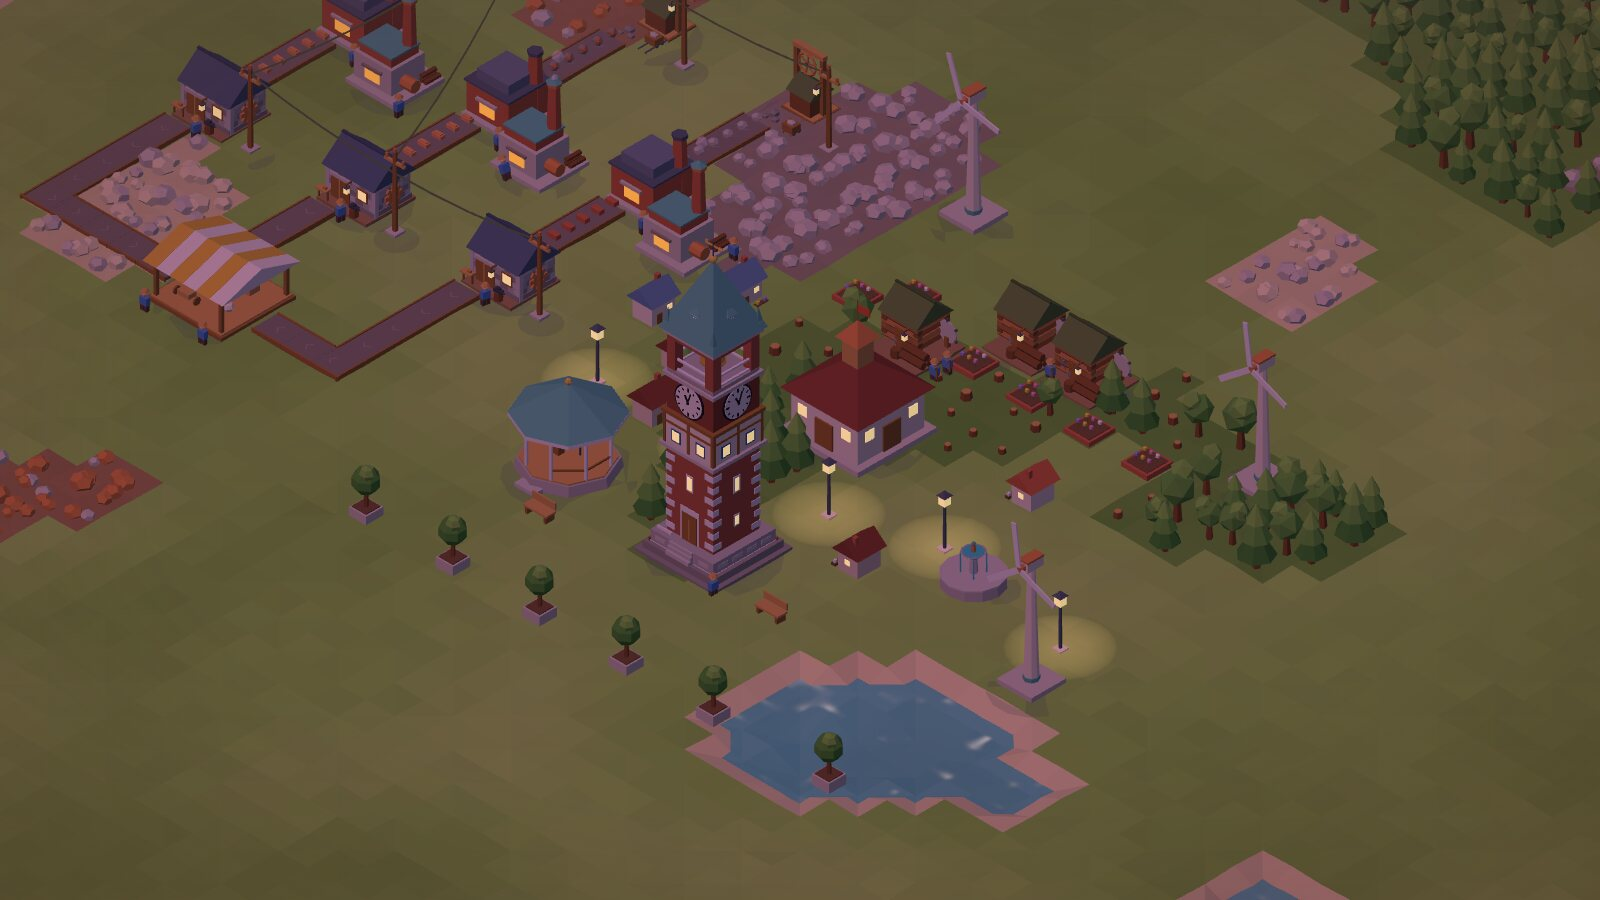
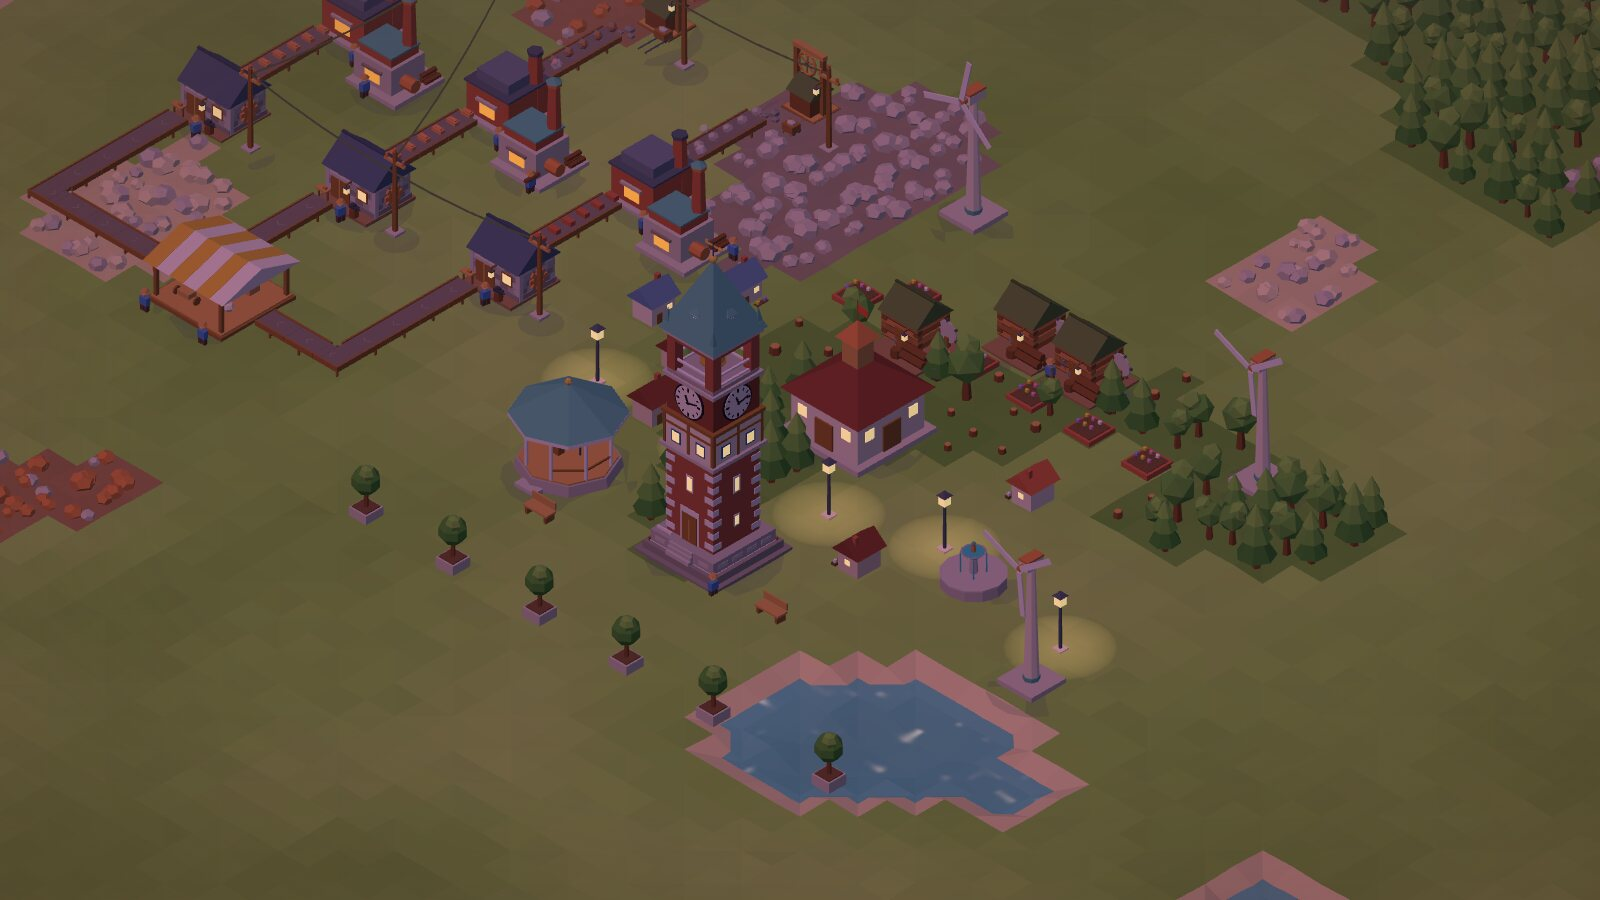
Förderbänder auf Holzböcken und schlanker, Brücke und Tunnel angepasst

diff --git a/src/render/belt-models.ts b/src/render/belt-models.ts
@@ -4,15 +4,22 @@ import { chevron, colored, merge } from './geometry';
 
 /**
  * Bandmodelle für ein Feld. Ursprung = Feldmitte, Ausgang immer nach Norden (−z).
- * Die Lauffläche liegt auf Höhe `BELT_SURFACE`.
+ * Das Band steht auf einem Holzbock etwa einen Meter über dem Boden (Arbeiter sind ~0,46 hoch);
+ * die Lauffläche liegt auf Höhe `BELT_SURFACE`.
  */
-export const BELT_SURFACE = 0.12;
-const W = 0.84; // Breite der Lauffläche
+/** Höhe des Bandkörpers über dem Boden (Unterkante der Lauffläche). */
+export const BELT_LIFT = 0.16;
+export const BELT_SURFACE = BELT_LIFT + 0.12;
+const W = 0.6; // Breite der Lauffläche (schlank, damit Bänder wenig verdecken)
 const H = W / 2;
-/** Holzrahmen: schmale Leisten am Rand (außen bündig mit ±0,47 wie früher, nur halb so breit). */
+/** Holzrahmen: schmale Leisten an beiden Seiten der Lauffläche. */
 const RAIL = 0.05;
 const RAIL_H = 0.15;
-const RAIL_X = 0.47 - RAIL / 2;
+const RAIL_X = H + RAIL / 2;
+const RAIL_Y = BELT_LIFT;
+/** Bock: zwei Beine unter den Leisten und eine Querstrebe. */
+const LEG = 0.05;
+const LEG_X = RAIL_X;
 
 function box(
   w: number,
@@ -33,9 +40,18 @@ const TIER_COLORS: readonly { frame: number; arrow: number }[] = [
   { frame: PALETTE.beltFrameMk3, arrow: PALETTE.beltArrowMk3 },
 ];
 
+/** Holzbock unter der Feldmitte (Beine und Querstrebe in Rahmenfarbe). */
+function trestle(color: number, z = 0): BufferGeometry[] {
+  return [
+    box(LEG, BELT_LIFT + 0.02, LEG, -LEG_X, 0, z, color),
+    box(LEG, BELT_LIFT + 0.02, LEG, LEG_X, 0, z, color),
+    box(2 * LEG_X, 0.035, 0.035, 0, BELT_LIFT * 0.4, z, color),
+  ];
+}
+
 function arrow(z: number, color: number): BufferGeometry {
   // dezenter, flacher Winkel auf der Lauffläche (kaum heller als das Band), zeigt nach −z
-  return chevron(0.26, 0.11, 0.035, 0.004, BELT_SURFACE, color).translate(0, 0, z);
+  return chevron(0.22, 0.1, 0.03, 0.004, BELT_SURFACE, color).translate(0, 0, z);
 }
 
 /**
@@ -44,12 +60,12 @@ function arrow(z: number, color: number): BufferGeometry {
  */
 export function beltDirectionMark(): BufferGeometry {
   return merge([
-    chevron(0.46, 0.2, 0.09, 0.02, BELT_SURFACE + 0.005, PALETTE.beltBuildArrow).translate(
+    chevron(0.4, 0.18, 0.08, 0.02, BELT_SURFACE + 0.005, PALETTE.beltBuildArrow).translate(
       0,
       0,
       0.16,
     ),
-    chevron(0.46, 0.2, 0.09, 0.02, BELT_SURFACE + 0.005, PALETTE.beltBuildArrow).translate(
+    chevron(0.4, 0.18, 0.08, 0.02, BELT_SURFACE + 0.005, PALETTE.beltBuildArrow).translate(
       0,
       0,
       -0.12,
@@ -60,9 +76,10 @@ export function beltDirectionMark(): BufferGeometry {
 export function beltStraight(tier = 1): BufferGeometry {
   const c = TIER_COLORS[tier - 1];
   return merge([
-    box(W, 0.1, 1, 0, 0.02, 0, PALETTE.beltSurface),
-    box(RAIL, RAIL_H, 1, -RAIL_X, 0, 0, c.frame),
-    box(RAIL, RAIL_H, 1, RAIL_X, 0, 0, c.frame),
+    box(W, 0.1, 1, 0, BELT_LIFT + 0.02, 0, PALETTE.beltSurface),
+    box(RAIL, RAIL_H, 1, -RAIL_X, RAIL_Y, 0, c.frame),
+    box(RAIL, RAIL_H, 1, RAIL_X, RAIL_Y, 0, c.frame),
+    ...trestle(c.frame),
     arrow(0, c.arrow),
   ]);
 }
@@ -73,14 +90,33 @@ export function beltCurve(left: boolean, tier = 1): BufferGeometry {
   const s = left ? 1 : -1; // Spiegelung über die Lage der Teile, nicht über die Geometrie
   return merge([
     // Querband vom Eingangsrand bis über die Mitte
-    box(0.5 + H, 0.1, W, s * (-0.5 + (0.5 + H) / 2), 0.02, 0, PALETTE.beltSurface),
+    box(0.5 + H, 0.1, W, s * (-0.5 + (0.5 + H) / 2), BELT_LIFT + 0.02, 0, PALETTE.beltSurface),
     // kurzes Stück zum Nordrand
-    box(W, 0.1, 0.5 - H, 0, 0.02, -0.5 + (0.5 - H) / 2, PALETTE.beltSurface),
-    // Außenränder (Süden und gegenüber dem Eingang)
-    box(1, RAIL_H, RAIL, 0, 0, RAIL_X, c.frame),
-    box(RAIL, RAIL_H, 1, s * RAIL_X, 0, 0, c.frame),
+    box(W, 0.1, 0.5 - H, 0, BELT_LIFT + 0.02, -0.5 + (0.5 - H) / 2, PALETTE.beltSurface),
+    // Außenränder: Süden (vom Eingangsrand bis zur Ecke) und gegenüber dem Eingang (Ecke bis Nordrand)
+    box(
+      0.5 + RAIL_X + RAIL / 2,
+      RAIL_H,
+      RAIL,
+      s * (-0.5 + (0.5 + RAIL_X + RAIL / 2) / 2),
+      RAIL_Y,
+      RAIL_X,
+      c.frame,
+    ),
+    box(
+      RAIL,
+      RAIL_H,
+      0.5 + RAIL_X + RAIL / 2,
+      s * RAIL_X,
+      RAIL_Y,
+      -0.5 + (0.5 + RAIL_X + RAIL / 2) / 2,
+      c.frame,
+    ),
     // Eckpfosten innen
-    box(RAIL, RAIL_H, RAIL, s * -RAIL_X, 0, -RAIL_X, c.frame),
+    box(RAIL, RAIL_H, RAIL, s * -RAIL_X, RAIL_Y, -RAIL_X, c.frame),
+    // Bock unter der Kurvenmitte, quer zur Diagonale
+    box(LEG, BELT_LIFT + 0.02, LEG, s * -LEG_X, 0, -LEG_X, c.frame),
+    box(LEG, BELT_LIFT + 0.02, LEG, s * LEG_X, 0, LEG_X, c.frame),
     arrow(-0.18, c.arrow),
   ]);
 }

diff --git a/src/render/building-models.ts b/src/render/building-models.ts
@@ -11,7 +11,7 @@ import {
   type BufferGeometry,
 } from 'three';
 import { PALETTE } from '../data/palette';
-import { beltStraight } from './belt-models';
+import { BELT_LIFT, beltStraight } from './belt-models';
 import { colored, merge } from './geometry';
 import { bandstand, clockTowerFull, clockTowerSite, fountain } from './landmark-models';
 
@@ -412,12 +412,15 @@ function assembler(): BufferGeometry {
  */
 function tunnel(entrance: boolean): BufferGeometry {
   const dir = entrance ? -1 : 1; // Lage des Portals: Norden (−z) beim Eingang, Süden beim Ausgang
-  const ramp = new BoxGeometry(0.74, 0.08, 0.75).rotateX(dir * 0.22).translate(0, 0.1, -dir * 0.1);
+  // Rampe vom Bandbock (Bandhöhe am offenen Rand) hinab zur Portalöffnung
+  const ramp = new BoxGeometry(0.6, 0.08, 0.8)
+    .rotateX(dir * 0.36)
+    .translate(0, BELT_LIFT - 0.02, -dir * 0.1);
   return merge([
     box(0.96, 0.06, 0.96, 0, 0, 0, PALETTE.rockDark),
     colored(ramp, PALETTE.beltSurface),
-    box(0.1, 0.16, 0.7, -0.42, 0, -dir * 0.12, PALETTE.beltFrame),
-    box(0.1, 0.16, 0.7, 0.42, 0, -dir * 0.12, PALETTE.beltFrame),
+    box(0.05, 0.2, 0.7, -0.325, 0.06, -dir * 0.12, PALETTE.beltFrame),
+    box(0.05, 0.2, 0.7, 0.325, 0.06, -dir * 0.12, PALETTE.beltFrame),
     // Portal
     box(0.96, 0.55, 0.26, 0, 0, dir * 0.36, PALETTE.stone),
     box(0.62, 0.36, 0.05, 0, 0.04, dir * 0.22, PALETTE.rockDark),
@@ -646,17 +649,24 @@ function merger(): BufferGeometry {
 }
 
 function bridge(): BufferGeometry {
+  // Unteres Band auf Bandhöhe, oberes Band hoch genug darüber, dass die Ware unten durchpasst
+  const lo = BELT_LIFT;
+  const hi = BELT_LIFT + 0.5;
   return merge([
-    // unteres Band (Nord → Süd)
-    box(0.74, 0.1, 1, 0, 0.02, 0, PALETTE.beltSurface),
-    // Rampe des oberen Bandes (West → Ost) auf Stützen
-    box(1, 0.08, 0.74, 0, 0.62, 0, PALETTE.beltSurface),
-    box(1, 0.12, 0.08, 0, 0.58, 0.41, PALETTE.beltFrame),
-    box(1, 0.12, 0.08, 0, 0.58, -0.41, PALETTE.beltFrame),
-    box(0.1, 0.62, 0.1, -0.44, 0, 0.41, PALETTE.woodDark),
-    box(0.1, 0.62, 0.1, 0.44, 0, 0.41, PALETTE.woodDark),
-    box(0.1, 0.62, 0.1, -0.44, 0, -0.41, PALETTE.woodDark),
-    box(0.1, 0.62, 0.1, 0.44, 0, -0.41, PALETTE.woodDark),
+    // unteres Band (Nord → Süd) auf kurzen Beinen
+    box(0.6, 0.1, 1, 0, lo + 0.02, 0, PALETTE.beltSurface),
+    box(0.05, 0.15, 1, -0.325, lo, 0, PALETTE.beltFrame),
+    box(0.05, 0.15, 1, 0.325, lo, 0, PALETTE.beltFrame),
+    box(0.05, lo + 0.02, 0.05, -0.325, 0, 0, PALETTE.beltFrame),
+    box(0.05, lo + 0.02, 0.05, 0.325, 0, 0, PALETTE.beltFrame),
+    // oberes Band (West → Ost) auf vier Stützen
+    box(1, 0.08, 0.6, 0, hi + 0.04, 0, PALETTE.beltSurface),
+    box(1, 0.12, 0.06, 0, hi, 0.34, PALETTE.beltFrame),
+    box(1, 0.12, 0.06, 0, hi, -0.34, PALETTE.beltFrame),
+    box(0.08, hi, 0.08, -0.44, 0, 0.42, PALETTE.woodDark),
+    box(0.08, hi, 0.08, 0.44, 0, 0.42, PALETTE.woodDark),
+    box(0.08, hi, 0.08, -0.44, 0, -0.42, PALETTE.woodDark),
+    box(0.08, hi, 0.08, 0.44, 0, -0.42, PALETTE.woodDark),
   ]);
 }
 

diff --git a/src/render/belt-view.ts b/src/render/belt-view.ts
@@ -19,7 +19,7 @@ const SHAPE_LEFT = 1;
 const SHAPE_RIGHT = 2;
 const TIERS = 3;
 /** Ware auf Bändern etwas größer zeichnen, damit der Warenfluss gut zu sehen ist. */
-const ITEM_SCALE = 1.2;
+const ITEM_SCALE = 1.1;
 
 /**
  * Bänder (gerade Stücke und Kurven als Instanzen) und die Items darauf.

diff --git a/CLAUDE.md b/CLAUDE.md
@@ -75,7 +75,7 @@ Vor jedem Commit: `npm run typecheck && npm run lint && npm test`.
 - **Werkzeuge** (`src/input/tools.ts`): Auswahl/Abbau von Hand, Bauen (Vorschau, R drehen), Abriss (X, Rahmen ziehen). Beim Abbau wird der Sichtstrahl in mehreren Höhen abgetastet, damit Klicks auf Baumkronen den richtigen Baum treffen.
 - **Werkzeug Band:** Ziehen ergibt einen L-förmigen Weg (Achse nach der ersten Bewegung, R wechselt die Ecke). Das letzte Feld zeigt automatisch in einen angrenzenden passenden Eingang (`belts.inputDirFor`). Vorhandene Bänder im Weg werden gedreht statt neu gebaut.
 - **Darstellung Strom** (`render/power-view.ts`): Kabel als Instanzen dünner Quader (8 Stücke je Verbindung, durchhängend), neu bei `power.version`. Strom-Ansicht (Taste V, automatisch beim Bauen von Strom-Gebäuden): Versorgungsbereiche blau, Gebäude grün/gelb/rot. Kopfzeile zeigt das Netz mit der größten Erzeugung; Mast-Infofenster mit Verlauf (`power.history`, 1 Probe/s, 60 s).
-- **Darstellung Bänder** (`render/belt-view.ts`, Modelle in `belt-models.ts`: schmale Holzleisten 0,05 breit, Lauffläche 0,84): gerade Stücke und Kurven als `DynamicChunkedInstances`; Form aus `belts.entryDir`. Items: ein `InstancedMesh` je Item-Art, jedes Bild nur für Segmente im Bildausschnitt aus den Abständen berechnet, mit `alpha` zwischen den Ticks weitergeschoben; weit herausgezoomt ausgeblendet. Problemsymbole: `render/status-icons.ts` (4×/s, erst nach `problemDelayTicks`).
+- **Darstellung Bänder** (`render/belt-view.ts`, Modelle in `belt-models.ts`: Bänder stehen auf Holzböcken etwa einen Meter hoch (`BELT_LIFT` 0,16, Lauffläche auf `BELT_SURFACE` 0,28; Arbeiter sind 0,46 hoch), schlanke Lauffläche 0,6 mit Leisten 0,05 – Wunsch des Auftraggebers, damit Bänder weniger verdecken; Brücke und Tunnelrampe nutzen dieselbe Höhe): gerade Stücke und Kurven als `DynamicChunkedInstances`; Form aus `belts.entryDir`. Items: ein `InstancedMesh` je Item-Art, jedes Bild nur für Segmente im Bildausschnitt aus den Abständen berechnet, mit `alpha` zwischen den Ticks weitergeschoben; weit herausgezoomt ausgeblendet. Problemsymbole: `render/status-icons.ts` (4×/s, erst nach `problemDelayTicks`).
 - **Oberfläche:** Kopfzeile (`ui/hud.ts`, mit Knöpfen für Forschung und Statistik), Bauleiste mit 3D-gerenderten Gebäudebildern (`ui/build-bar.ts`, `render/icons.ts`; zeigt nur Erforschtes, leere Kategorien ausgeblendet), Infofenster mit Rezeptwahl (`ui/info-panel.ts`; Aufbau neu bei anderem Rezept, Stufe oder Forschungsstand; unter der Auslastung „Nächstes Teil“ mit Balken, Restzeit und Zeit je Teil aus `machines.cycleOf`, rechnet mit dem echten Tempo samt Strom, Forschung und Stufe, Spielsekunden bei 1×), Meldungen und „+1“-Zahlen (`ui/toasts.ts`). Fenster in der Bildmitte (`ui/game-window.ts`): Forschungsbaum (`ui/research-window.ts`, Taste T; Reiter je Bereich `area` aus `RESEARCH_AREAS` plus Reiter „Verbesserungen“, je Bereich höchstens 2 Zeilen, damit nichts scrollt – passt es trotzdem nicht, wird der Baum verkleinert statt gescrollt; grüner Punkt am Reiter = dort ist gerade etwas erforschbar; Voraussetzungen aus anderen Bereichen als anklickbare Hinweise auf der Karte; Karten nach `pos` innerhalb des Bereichs, Linien als SVG; Kosten je Zeile mit Item-Bild, Name, „Vorrat / benötigt“ und Balken grün/orange) und Statistik (`ui/stats-window.ts`, Taste I). Aufgabenliste links oben (`ui/goals-panel.ts`). Esc schließt zuerst diese Fenster. Item-Bilder werden aus den Item-Modellen gerendert (`setItemIcons`). Alles aktualisiert nur bei Änderungen, höchstens 4×/s.
 - **Neue Rohstoffe** (Erweiterung nach Phase 7): Eisenerz, Kohle (Brennstoff, 600 kJ) und Sand als **späte Vorkommen** (`late: true` in `DEPOSITS`): Sie werden erst nach dem Startgebiet gesetzt, nur auf Wiese/Wald und nicht im Umkreis `lateClearRadius`; fehlt eines im Umkreis `nearStart`, wird ein kleiner Fleck garantiert. Neue Vorkommen künftig ebenfalls als `late` anhängen. Rezepte: Eisenbarren und Glas (Schmelzofen), Zahnrad (Werkstatt), Stahl (Gießerei, Maschinenart `foundry`, 3 × 3, 2 Eingänge).
 - **Neue Stromarten:** Wasserrad (`water`, Platzierung `shore`: Vorderseite – ungedreht Süden – muss an Wasser grenzen, sonst `PlaceResult.NeedsWater`), Solarfeld (`solar`, Leistung × Sonnenstärke aus `sim/daylight.ts`; dieselbe Tageszeit-Rechnung nutzt die Atmosphäre; Tag-Nacht aus → fester Nachmittag, Befehl `setDayCycle` aus den Einstellungen) und Akku-Haus (`battery`, Ladung in J in `machines.fuelEnergy`, daher ohne eigenes Speicherfeld). Reihenfolge je Netz und Tick: freie Erzeuger (Wind, Wasser, Sonne) decken den Verbrauch zuerst, Überschuss lädt Akkus (bis `rateKW`), bei Mangel geben Akkus ab, erst den Rest liefern Brenner (`fuelNeed`; Selbstnachfüllen nur, wenn Brenner gebraucht werden). `power.flow` = Lade-/Entladeleistung je Akku (nur Anzeige).
@@ -111,7 +111,7 @@ Vor jedem Commit: `npm run typecheck && npm run lint && npm test`.
 - **Designsprache „Papier und Tinte“** (vom Auftraggeber aus drei Entwürfen gewählt, 2026-11-15): Papierflächen (`--paper`) mit Tintenlinien (`--line` 2,5 px, `--ink`), harte Schatten ohne Unschärfe (`--drop`), Farben aus der Spielwelt (`--meadow`, `--sky`, `--clay`, `--sun`, `--rose`). Alle Werte als CSS-Variablen oben in `src/ui/style.css`. Knöpfe sind drückbar (Schatten unten, gedrückt/aktiv sinken sie ein). Jede Baukategorie hat eine feste Farbe über `data-cat` (Reiter, Farbstreifen der Bauleisten-Karten, Kopfband des Infofensters). Fenster und Karten haben ein farbiges Kopfband. Symbole sind Strich-SVGs aus `src/ui/icons.ts` (`icon(name)`, `closeButton`), keine Emojis. Schrift: nur Systemschriften (abgerundete zuerst). Bauleiste: Reiter „Schnellwahl 1–9“ (Standard) zeigt die Gebäude der Zahlentasten. Blaupause und Abriss stehen als Knöpfe unten rechts in der Karte der Bauleiste (`build-actions`, Wunsch des Auftraggebers); die Bauleiste ist mittig im Platz links neben der Minikarte, der Tasten-Hinweis unten links erscheint erst ab 1760 px Breite.
 - **Materialsprache der Gebäude** (Wunsch des Auftraggebers, `render/building-models.ts`): Das Material zeigt die Aufgabe. Wald & Abbau: Holzstämme, moosgrünes Dach (Holzfäller als Blockhütte mit Hackklotz, Bergwerk-Hütte). Werkstätten: Werkstatt aus Bruchstein (`rubbleFace`) mit Schieferdach, Tor, Amboss und Werkbank; Manufaktur aus ockergelbem Klinker mit dunklem Sheddach und blauen Fensterrahmen. Öfen: Ziegel/Eisen mit Metalldach. Lager & Logistik: rote Scheunen mit weißen Kanten und Kreuz-Toren (`barn`; Großlager mit Wellblechdach), Depots mit gestreifter Zeltplane. Energie: Kupfer- und Patina-Akzente, Wasserrad als Mühle (Bruchstein, Holz, Strohdach). Zentrale bleibt cremeweiß mit rotem Dach. Kleine Kategorie-Schilder an den Gebäuden wurden wieder entfernt (Auftraggeber: stören, nichts erkennbar). Neue Farben nie gleich den Shader-Sonderfarben wählen (Laub, Fensterlicht, Glut, Fahne; Toleranz 0,01). Bruchsteine sind flache Platten (2 Dreiecke je Stein). Messung Referenzfabrik (1280 × 800, Startansicht): 292 000 statt 280 000 Dreiecke, Zeichenaufrufe unverändert 29; Werkstatt 470 statt 108 Dreiecke, Holzfäller 600 statt 180.
 - **Laufrichtung beim Bandbau:** Bandvorschau und, solange das Band-Werkzeug aktiv ist, alle sichtbaren Bänder zeigen kräftige gelbe Doppelwinkel (`beltDirectionMark`, `BuildPreview.beltMarks`, `BeltView.showDirections` über `GameRenderer.setBeltDirections`). Sonst bleiben nur die dezenten Winkel.
-- **Übersichtlichkeit dichter Fabriken** (Wunsch des Auftraggebers): Bergwerk ohne dunkle Bodenplatte (kleines Holzfundament, Erzboden bleibt sichtbar; Lore und Rad tiefer gesetzt). Sockel aller Gebäude schmaler (2 × 2: 1,72, 3 × 3: 2,74), damit Nachbarn eine Fuge haben. Bänder heller (Lauffläche warmes Mittelgrau), Ware auf Bändern 1,2-fach groß, Erze heller.
+- **Übersichtlichkeit dichter Fabriken** (Wunsch des Auftraggebers): Bergwerk ohne dunkle Bodenplatte (kleines Holzfundament, Erzboden bleibt sichtbar; Lore und Rad tiefer gesetzt). Sockel aller Gebäude schmaler (2 × 2: 1,72, 3 × 3: 2,74), damit Nachbarn eine Fuge haben. Bänder heller (Lauffläche warmes Mittelgrau), Ware auf Bändern 1,1-fach groß (passt auf die schlanke Lauffläche), Erze heller. Messung erhöhte Bänder (Referenzfabrik, 1280 × 800): Startansicht 305 000 statt 292 000 Dreiecke, weit heraus 410 000 statt 381 000, Zeichenaufrufe unverändert.
 - **Bauhilfe:** Beim Bauen (Gebäude, Bänder, Blaupause einfügen) ein feines, nach außen ausblendendes Feldraster um den Mauszeiger (`BuildPreview.grid`, Farbe mit Alphawert je Ecke) und kräftig leuchtende freie Anschlüsse aller Gebäude (`PortMarkers.setHighlight`, `DynamicChunkedInstances.setMaterial`).
 - **Uhrturm** (Wahrzeichen, Wunsch des Auftraggebers als Langzeitziel; `src/data/landmark.ts`, `src/sim/landmark.ts`): einmaliges Gebäude (3 × 3, `behavior: 'landmark'`, ab Start, Kategorie Dekoration) mit 6 Bauabschnitten (`LANDMARK_STAGES`, nur hinten anhängen). Jeder Abschnitt wünscht sich Waren: per Band (Eingänge an allen Seiten; Unbenötigtes geht wie beim Depot in den Vorrat) oder per Befehl `contributeLandmark` aus dem Vorrat. Fertiger Abschnitt → Ereignis `landmarkStage`, Belohnung (Tempo-Boni fließen in `ResearchSystem.crafterSpeed/extractorSpeed` über `setLandmarkStage`, Gebäude-Freischaltungen Brunnen/Musikpavillon, Uhr ab „Uhrwerk“, Glocke ab „Glockenstube“). Der Fortschritt gehört der Welt, nicht dem Gebäude: Abriss verliert nichts. Darstellung: Gebäude-Instanz = nur Bauplatz; `render/landmark-view.ts` setzt die fertigen Abschnitte (`landmark-models.ts`) zu einem Mesh zusammen, mit Gerüst um den entstehenden Abschnitt; Zeiger als zwei `InstancedMesh` (je 4) nach der **echten Uhrzeit** des Computers (`render/clock.ts`, einmal pro Sekunde); Glockenschläge zur vollen Stunde (`takeChime` → `sound.towerBell`). Bauleiste/Vorschau zeigen den fertigen Turm (`PREVIEW_MODELS`). Hervorgehobene Meldung (`toast big`) bei jedem fertigen Abschnitt.
 - **Endprodukte aus Eisen, Glas und Stahl** (Ausbaurunde Spielspaß, Schritt 2): Eisenplatte (Werkstatt, „Eisenverhüttung“), Linse (Werkstatt, „Glasbläserei“), Stahlträger (Manufaktur, „Stahlwerk“), Uhrwerk (Manufaktur, neue Forschung „Feinmechanik“), Messinstrument (Manufaktur, neue Forschung „Optik“). Verwendung: Uhrturm-Abschnitte 4–6, Forschungskosten und die **Stufen für Maschinen** (siehe „Stufen 1–3“); Forschungsknoten mit `crafterUpgrade: true` bzw. `level3: true`. Draht und Bretter dauern 4 s (30/min wie alle Grundmaschinen). Der Item-Tooltip nennt auch Uhrturm-Abschnitte und Stufe 2 als Verwendung.
